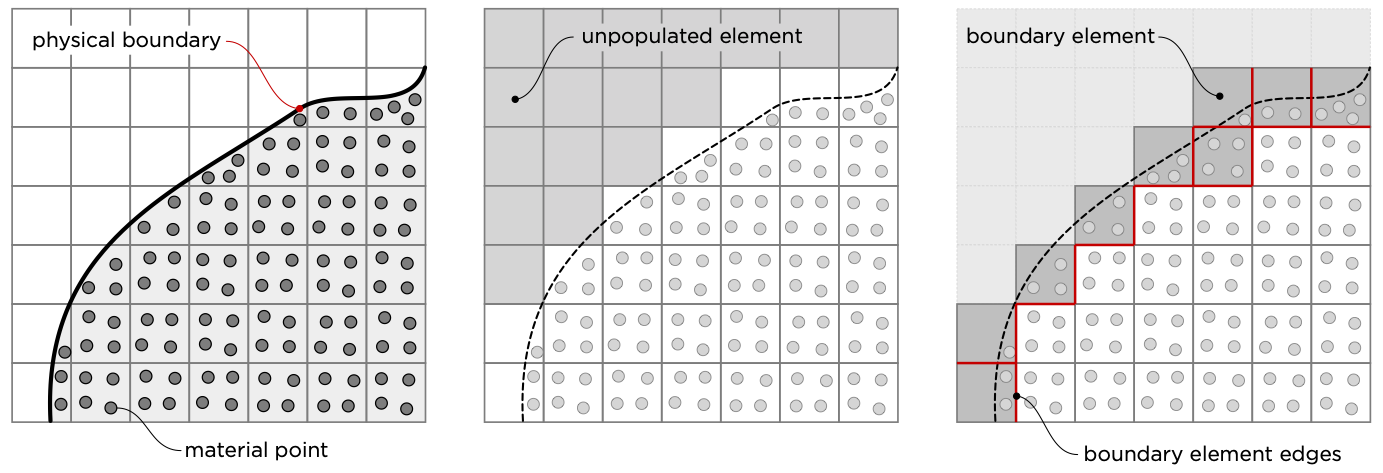
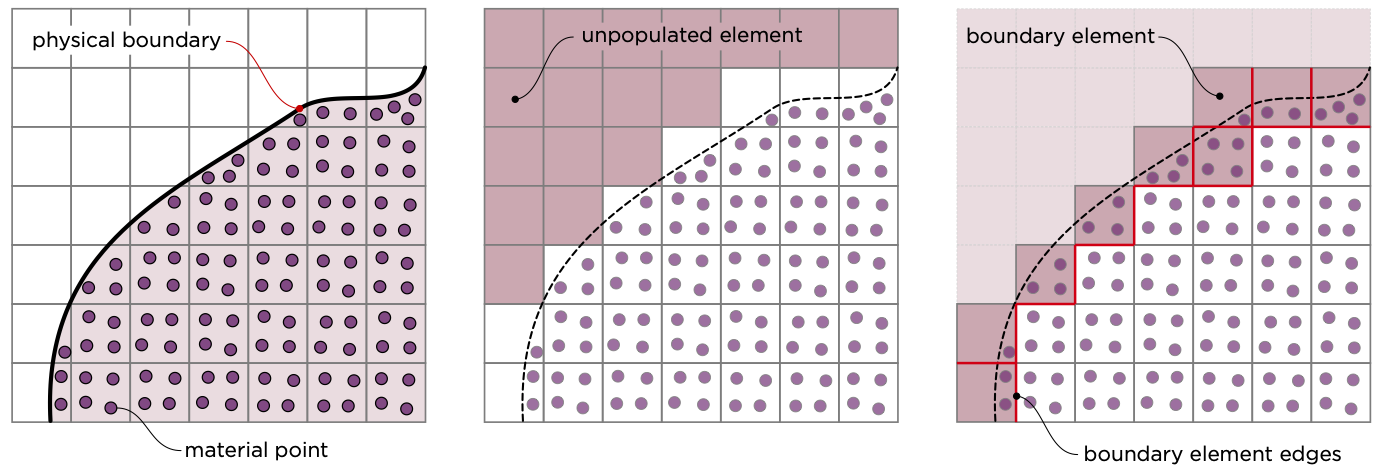
ghost update

diff --git a/docs/docs/TechnicalReferences/ghostStabilisation.md b/docs/docs/TechnicalReferences/ghostStabilisation.md
@@ -100,10 +100,10 @@ where $N_i$ are the basis functions of the background finite element mesh and $n
 For quasi-static analysis, ghost stabilisation acts as a penalty approach that modifies the weak form of the equilibrium equation to 
 
 $$
-\int_{\varphi_t(K)}[\nabla_x S_{vp}]^{T}\{\sigma_p\} \text{d}V - \int_{\varphi_t(K)}[S_{vp}]^{T}\{b\} \text{d}V  + \beta \int_{\Gamma} [G]^T[n]\{g\}  d\Gamma= \{0\},
+\int_{\varphi_t(K)}[\nabla_x S_{vp}]^{T}\{\sigma_p\} \text{d}V - \int_{\varphi_t(K)}[S_{vp}]^{T}\{b\} \text{d}V  + \beta_k \int_{\Gamma} [G]^T[n]\{g\}  d\Gamma= \{0\},
 $$
 
-where $\{g\}=[n]^T[G]\{d\}$ is the jump in the displacement over a boundary element edge, $\beta = \gamma_k h^3/2$ and $\gamma_k$ is a penalty parameter that controls the magnitude of the ghost stabilisation. 
+where $\{g\}=[n]^T[G]\{d\}$ is the jump in the displacement over a boundary element edge, $\beta_k = \gamma_k h^3/3$ and $\gamma_k$ is a ghost stabilisation stiffness penalty parameter that controls the magnitude of the ghost stabilisation. 
 
 Linearising the ghost stabilisation term in the weak equilibrium equation with respect to the unknown displacements of the background mesh results in a stiffness stabilisation term with the following form
 
